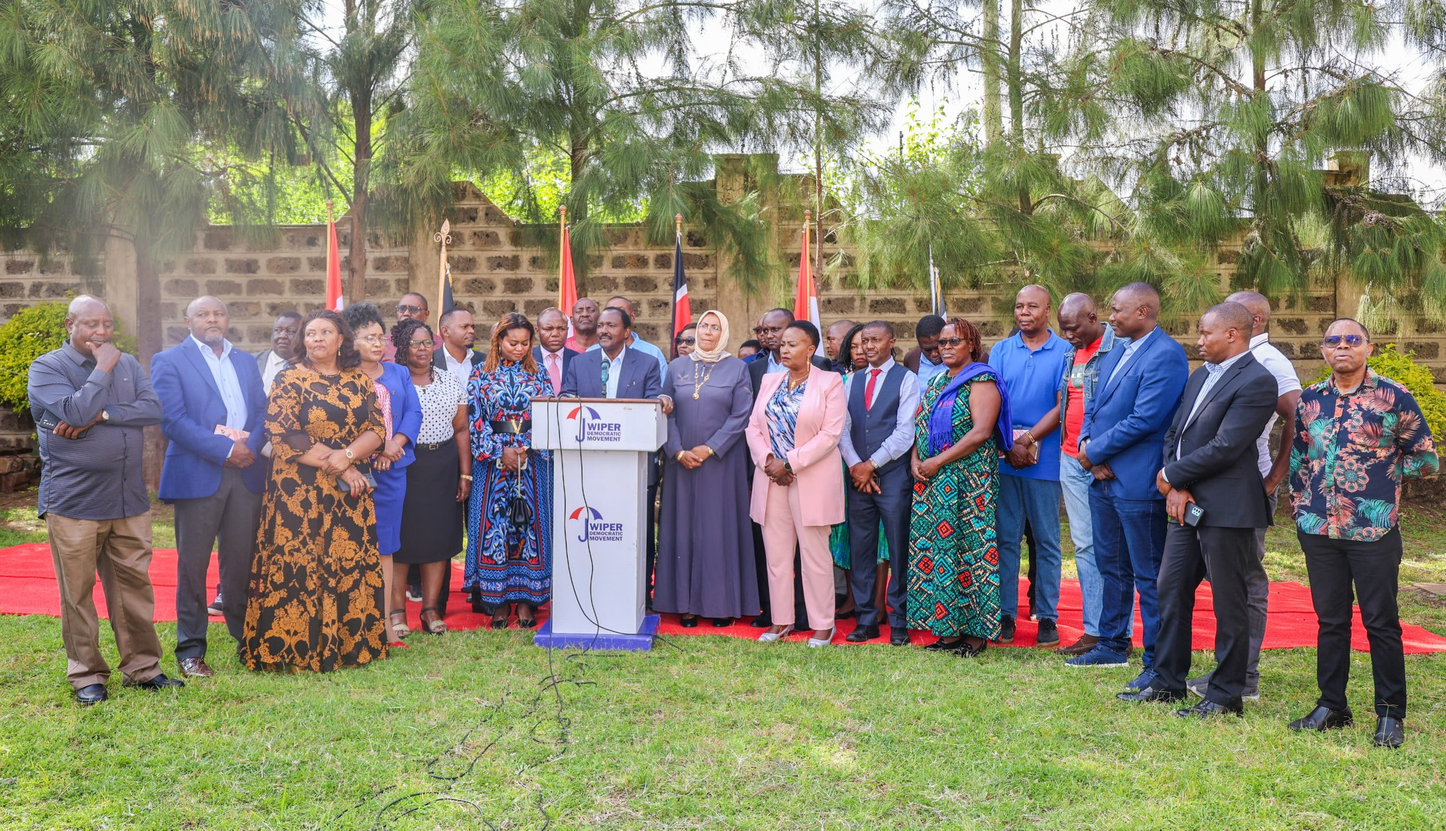
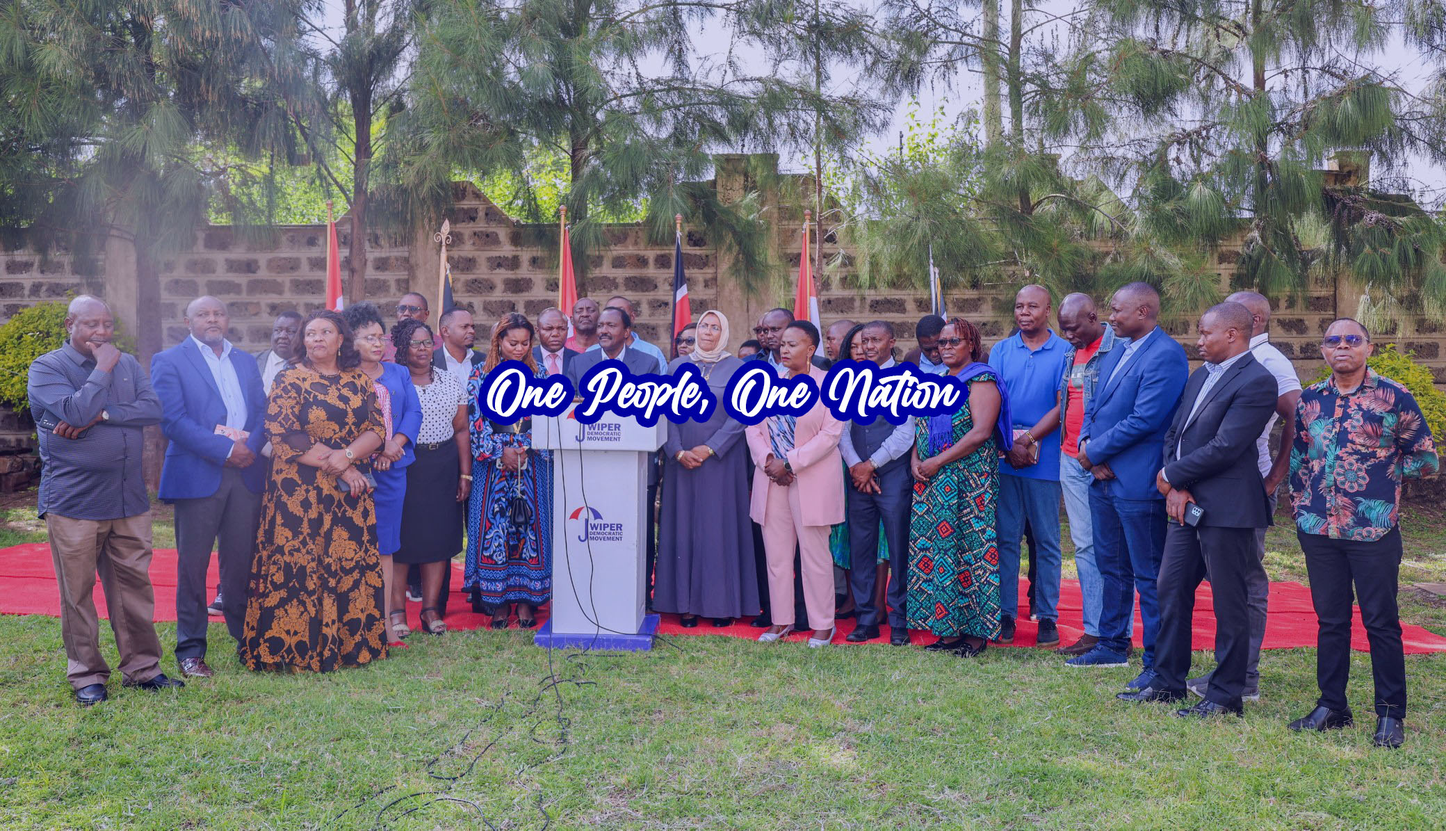
Updated index

diff --git a/wiper/templates/index.html b/wiper/templates/index.html
@@ -6,12 +6,45 @@
     <!-- ===============================================-->
     <main class="main" id="top">
 
-      <!-- ============================================-->
+
+      <section class="pt-0 pb-2 hero-slider">
+        <div class="swiper theme-slider" data-swiper='{"spaceBetween":5,"loop":true,"loopedSlides":5,"thumb":{"spaceBetween":5,"slidesPerView":5,"loop":true,"freeMode":true,"grabCursor":true,"loopedSlides":5,"centeredSlides":true,"slideToClickedSlide":true,"watchSlidesVisibility":true,"watchSlidesProgress":true},"slideToClickedSlide":true}'>
+          <div class="swiper-wrapper">
+            <div class="swiper-slide"><img class="img-fluid" src="{% static 'assets/img/necpg.jpg' %}" alt="image" /></div>
+            <div class="swiper-slide"> <img class="img-fluid" src="{% static 'assets/img/rally1.jpg' %}" alt="image" /></div>
+            <div class="swiper-slide"> <img class="img-fluid" src="{% static 'assets/img/rally2.jpg' %}" alt="image" /></div>
+            <div class="swiper-slide"> <img class="img-fluid" src="{% static 'assets/img/rally3.jpg' %}" alt="image" /></div>
+            <div class="swiper-slide"> <img class="img-fluid" src="{% static 'assets/img/rally4.jpg' %}" alt="image" /></div>
+          </div>
+          <div class="swiper-nav">
+            <div class="swiper-button-prev"><span class="fas fa-chevron-left"></span></div>
+            <div class="swiper-button-next"><span class="fas fa-chevron-right"></span></div>
+          </div>
+        </div>
+      </section>
+
+
+
       <!-- <section> begin ============================-->
-      <section class="py-0">
+        <section class="py-12 text-center text-md-start" style="background-image:url({% static 'assets/img/calltoaction.jpg'%}); background-repeat: no-repeat; background-size: cover;">
+          <div class="container">
+            <div class="row align-items-center">
+              <div class="col-md">
+                <h3 class="text-white mb-0">One People, One Nation</h3>
+              </div>
+              <div class="col-md-auto mt-md-0 mt-4"><a class="btn btn-warning rounded-pill" href="{% url 'index' %}">Join the Movement</a></div>
+            </div>
+          </div>
+        </section>
+
+
+
+      
+      <!-- <section> begin ============================-->
+      {% comment %} <section class="py-0">
         <div class="bg-holder" style="background-image:url({% static 'assets/img/hero.png' %}); background-repeat: no-repeat; background-size: cover"></div>
         <!--/.bg-holder-->
-        <div class="container">
+        <div class="container-fluid">
           <div class="row min-vh-100 py-8 align-items-center" data-inertia='{"weight":1.5}'>
             <div class="col-sm-8 col-lg-7">
               <div class="overflow-hidden">
@@ -30,12 +63,12 @@
               </div>
             </div>
           </div>
-        </div><!-- end of .container-->
-      </section>
+        </div>
+      </section> {% endcomment %}
 
 
 
-        <!-- <section> close ============================-->
+        
       
       <!-- <section> begin ============================-->
       {% comment %} <section class="bg-white text-center">
@@ -65,14 +98,14 @@
                 unions, professional associations, co-operative societies & student unions.</p>
             </div>
           </div>
-        </div><!-- end of .container-->
+        </div>
       </section> {% endcomment %}
-      <!-- <section> close ============================-->
-      <!-- ============================================-->
+      
+      
 
       
 
-      <!-- ============================================-->
+      
       <!-- <section> begin ============================-->
       <section class="bg-100 pt-6 pb-6">
         <div class="container">
@@ -110,12 +143,12 @@
             </div>
           </div>
         </div>
-      </section><!-- <section> close ============================-->
-      <!-- ============================================-->
+      </section>
+      
 
 
 
-      <!-- ============================================-->
+      
       <!-- <section> begin ============================-->
       <section class="mt-0 pt-6 pb-6">
         <div class="container">
@@ -128,47 +161,30 @@
             <div class="col-lg-6 px-lg-5 mt-6 mt-lg-0" data-zanim-timeline="{}" data-zanim-trigger="scroll">
               <div class="overflow-hidden">
                 <div class="px-4 px-sm-0" data-zanim-xs='{"delay":0}'>
-                  <h5 class="fs-0 fs-lg-1"><span class="fas fa-comment-dots fs-1 me-2" data-fa-transform="flip-h"></span>Vision</h5>
+                  <h5 class="fs-0 fs-lg-1">Vision</h5>
                   <p class="mt-3">To promote integrity, inclusivity, and social justice as the core national values towards a prosperous Kenya.</p>
                 </div>
               </div>
               <div class="overflow-hidden">
                 <div class="px-4 px-sm-0 mt-5" data-zanim-xs='{"delay":0}'>
-                  <h5 class="fs-0 fs-lg-1"><span class="fas fa-palette fs-1 me-2" data-fa-transform="shrink-1"></span>Ideology</h5>
+                  <h5 class="fs-0 fs-lg-1">Ideology</h5>
                     <p class="mt-3">The Party is founded on principles of social democracy and upholds ideals that foster equitable distribution of the Nation’s Resources and opportunities amongst all citizens. </p>
                 </div>
               </div>
               <div class="overflow-hidden">
                 <div class="px-4 px-sm-0 mt-5" data-zanim-xs='{"delay":0}'>
-                  <h5 class="fs-0 fs-lg-1"><span class="fas fa-stopwatch fs-1 me-2" data-fa-transform="grow-1"></span>Mission</h5>
+                  <h5 class="fs-0 fs-lg-1">Mission</h5>
                   <p class="mt-3">To provide access to transparent, accountable and people  centred leadership  for  the  benefit  of  present  and  future  generations  of Kenya. </p>
                 </div>
               </div>
             </div>
           </div>
-        </div><!-- end of .container-->
-      </section><!-- <section> close ============================-->
-      <!-- ============================================-->
+        </div>
+      </section>
+      
 
 
-
-      <!-- ============================================-->
-      <!-- <section> begin ============================-->
-      <section class="py-6 text-center text-md-start" style="background-color: #0000a1">
-        <div class="container">
-          <div class="row align-items-center">
-            <div class="col-md">
-              <h3 class="text-white mb-0">One People, One Nation</h3>
-            </div>
-            <div class="col-md-auto mt-md-0 mt-4"><a class="btn btn-warning rounded-pill" href="{% url 'index' %}">Join the Movement</a></div>
-          </div>
-        </div><!-- end of .container-->
-      </section><!-- <section> close ============================-->
-      <!-- ============================================-->
-
-
-
-      <!-- ============================================-->
+      
       <!-- <section> begin ============================-->
       <section class="text-center">
         <div class="container">
@@ -245,38 +261,22 @@
               </div>
             </div>
           </div>
-        </div><!-- end of .container-->
+        </div>
       </section><!--
       <section> close ============================-->
-      <!-- ============================================-->
+      
 
 
 
-      <!-- ============================================-->
+      
       <!-- <section> begin ============================-->
       {% include 'includes/leadership.html' %}
 
-
-      <section class="pt-0 pb-0">
-        <div class="swiper theme-slider" data-swiper='{"spaceBetween":5,"loop":true,"loopedSlides":5,"thumb":{"spaceBetween":5,"slidesPerView":5,"loop":true,"freeMode":true,"grabCursor":true,"loopedSlides":5,"centeredSlides":true,"slideToClickedSlide":true,"watchSlidesVisibility":true,"watchSlidesProgress":true},"slideToClickedSlide":true}'>
-          <div class="swiper-wrapper">
-            <div class="swiper-slide"><img class="img-fluid" src="{% static 'assets/img/necpg.jpg' %}" alt="image" /></div>
-            <div class="swiper-slide"> <img class="img-fluid" src="{% static 'assets/img/rally1.jpg' %}" alt="image" /></div>
-            <div class="swiper-slide"> <img class="img-fluid" src="{% static 'assets/img/rally2.jpg' %}" alt="image" /></div>
-            <div class="swiper-slide"> <img class="img-fluid" src="{% static 'assets/img/rally3.jpg' %}" alt="image" /></div>
-            <div class="swiper-slide"> <img class="img-fluid" src="{% static 'assets/img/rally4.jpg' %}" alt="image" /></div>
-          </div>
-          <div class="swiper-nav">
-            <div class="swiper-button-prev"><span class="fas fa-chevron-left"></span></div>
-            <div class="swiper-button-next"><span class="fas fa-chevron-right"></span></div>
-          </div>
-        </div>
-      </section>
       
 
-      <!-- ============================================-->
+      
       <!-- <section> begin ============================-->
-      <section class="bg-100">
+      <section class="bg-100 pt-0">
         <div class="container">
           <div class="text-center mb-6">
             <h3 class="fs-2 fs-md-3">Latest News</h3>
@@ -338,8 +338,8 @@
               </div>
             </div>
           </div>
-        </div><!-- end of .container-->
-      </section><!-- <section> close ============================-->
+        </div>
+      </section>
 
 
 
@@ -351,7 +351,7 @@
 
 
         <div class="bg-200 py-6">
-          <div class="container">
+          <div class="container-fluid">
             <div class="row align-items-center" data-zanim-timeline="{}" data-zanim-trigger="scroll">
               <div class="col-4 col-md-2 my-3 overflow-hidden"><img class="img-fluid" src="{% static 'assets/img/partner/logo2.png' %}" alt="partnerco" data-zanim-xs="{}" /></div>
               <div class="col-4 col-md-2 my-3 overflow-hidden"><img class="img-fluid" src="{% static 'assets/img/partner/logo3.png' %}" alt="tvc" data-zanim-xs="{}" /></div>

diff --git a/wiper/templates/about-us.html b/wiper/templates/about-us.html
@@ -54,119 +54,8 @@
     </div><!-- end of .container-->
   </section>
 
-
-  <section class="bg-100 text-center pt-4">
-        <div class="container">
-          <div class="text-center mb-6">
-            <h3 class="fs-2 fs-md-3">Party leadership</h3>
-            <hr class="short" data-zanim-xs='{"from":{"opacity":0,"width":0},"to":{"opacity":1,"width":"4.20873rem"},"duration":0.8}' data-zanim-trigger="scroll" />
-          </div>
-          <div class="row">
-            <div class="col-sm-6 col-lg-4    ">
-              <div class="card h-100"><img class="card-img-top" src="{% static 'assets/img/portrait-3.jpg' %}" alt="Kalonzo Musyoka" />
-                <div class="card-body" data-zanim-timeline="{}" data-zanim-trigger="scroll">
-                  <div class="overflow-hidden">
-                    <h5 data-zanim-xs='{"delay":0}'>H.E Dr. Stephen Kalonzo Musyoka, SC, EGH</h5>
-                  </div>
-                  <div class="overflow-hidden">
-                    <h6 class="fw-normal text-500" data-zanim-xs='{"delay":0.1}'>Party Leader</h6>
-                  </div>
-                </div>
-              </div>
-            </div>
-            <div class="col-sm-6 col-lg-4 mt-4  mt-lg-0 ">
-              <div class="card h-100"><img class="card-img-top" src="{% static 'assets/img/portrait-5.jpg' %}" alt="Andrew Sunkuli" />
-                <div class="card-body" data-zanim-timeline="{}" data-zanim-trigger="scroll">
-                  <div class="overflow-hidden">
-                    <h5 data-zanim-xs='{"delay":0}'>Andrew Sunkuli</h5>
-                  </div>
-                  <div class="overflow-hidden">
-                    <h6 class="fw-normal text-500" data-zanim-xs='{"delay":0.1}'>National Chairman</h6>
-                  </div>
-                </div>
-              </div>
-            </div>
-            <div class="col-sm-6 col-lg-4 mt-4 mt-sm-0  ">
-              <div class="card h-100"><img class="card-img-top" src="{% static 'assets/img/portrait-4.jpg' %}" alt="Shakila Abdalla" />
-                <div class="card-body" data-zanim-timeline="{}" data-zanim-trigger="scroll">
-                  <div class="overflow-hidden">
-                    <h5 data-zanim-xs='{"delay":0}'>Sen. Shakila Abdalla</h5>
-                  </div>
-                  <div class="overflow-hidden">
-                    <h6 class="fw-normal text-500" data-zanim-xs='{"delay":0.1}'>Secretary General</h6>
-                  </div>
-                </div>
-              </div>
-            </div>
-            <div class="col-sm-6 col-lg-4 mt-4   ">
-              <div class="card h-100"><img class="card-img-top" src="{% static 'assets/img/portrait-6.jpg' %}" alt="Anne Kanyi" />
-                <div class="card-body" data-zanim-timeline="{}" data-zanim-trigger="scroll">
-                  <div class="overflow-hidden">
-                    <h5 data-zanim-xs='{"delay":0}'>Anne Kanyi</h5>
-                  </div>
-                  <div class="overflow-hidden">
-                    <h6 class="fw-normal text-500" data-zanim-xs='{"delay":0.1}'>Deputy Chairperson</h6>
-                  </div>
-                </div>
-              </div>
-            </div>
-            <div class="col-sm-6 col-lg-4 mt-4   ">
-              <div class="card h-100"><img class="card-img-top" src="{% static 'assets/img/portrait-7.jpg' %}" alt="Mutula Kilonzo Jr" />
-                <div class="card-body" data-zanim-timeline="{}" data-zanim-trigger="scroll">
-                  <div class="overflow-hidden">
-                    <h5 data-zanim-xs='{"delay":0}'>Gov. Mutula Kilonzo Jr.</h5>
-                  </div>
-                  <div class="overflow-hidden">
-                    <h6 class="fw-normal text-500" data-zanim-xs='{"delay":0.1}'>Deputy Chairman</h6>
-                  </div>
-                </div>
-              </div>
-            </div>
-            <div class="col-sm-6 col-lg-4 mt-4   ">
-              <div class="card h-100"><img class="card-img-top" src="{% static 'assets/img/portrait-8.jpg' %}" alt="Victor Ogeto" />
-                <div class="card-body" data-zanim-timeline="{}" data-zanim-trigger="scroll">
-                  <div class="overflow-hidden">
-                    <h5 data-zanim-xs='{"delay":0}'>Victor Swanya Ogeto</h5>
-                  </div>
-                  <div class="overflow-hidden">
-                    <h6 class="fw-normal text-500" data-zanim-xs='{"delay":0.1}'>Deputy Chairman</h6>
-                  </div>
-                </div>
-              </div>
-            </div>
-            <div class="col-sm-6 col-lg-4 mt-4   ">
-              <div class="card h-100"><img class="card-img-top" src="{% static 'assets/img/portrait-9.jpg' %}" alt="Gideon Mulyungi" />
-                <div class="card-body" data-zanim-timeline="{}" data-zanim-trigger="scroll">
-                  <div class="overflow-hidden">
-                    <h5 data-zanim-xs='{"delay":0}'>Hon. Gideon Mulyungi</h5>
-                  </div>
-                  <div class="overflow-hidden">
-                    <h6 class="fw-normal text-500" data-zanim-xs='{"delay":0.1}'>National Treasurer</h6>
-                  </div>
-                </div>
-              </div>
-            </div>
-            <div class="col-sm-6 col-lg-4 mt-4   ">
-              <div class="card h-100"><img class="card-img-top" src="{% static 'assets/img/portrait-10.jpg' %}" alt="Robert Mbui" />
-                <div class="card-body" data-zanim-timeline="{}" data-zanim-trigger="scroll">
-                  <div class="overflow-hidden">
-                    <h5 data-zanim-xs='{"delay":0}'>Hon. Robert Mbui</h5>
-                  </div>
-                  <div class="overflow-hidden">
-                    <h6 class="fw-normal text-500" data-zanim-xs='{"delay":0.1}'>National Organising Secretary</h6>
-                  </div>
-                </div>
-              </div>
-            </div>
-          </div>
-        </div><!-- end of .container-->
-      </section><!-- <section> close ============================-->
-
-
-        
-
-        {% include 'includes/leadership.html' %}
-
+       
+  {% include 'includes/leadership.html' %}
 
 
 {% endblock%} 

diff --git a/wiper/templates/base.html b/wiper/templates/base.html
@@ -118,7 +118,7 @@
                 <ul class="list-unstyled">
                     <li class="mb-3"><a class="text-white" href="https://drive.google.com/file/d/1XqlFJjGJ9kZ9wKN_t1c_RcSdV0JZBsEr/view?usp=drive_link">How to Register</a></li>
                     <li class="mb-3"><a class="text-white" href="https://drive.google.com/file/d/1O7rZxltoDbpwuO0lBr5zYL3IkMhBG9EC/view?usp=drive_link">Elected Leaders</a></li>
-                    <li class="mb-3"><a class="text-white" href="https://drive.google.com/file/d/1CK_gd8_sSkcqxDzKNJUs2qOuVKjAqfl1/view?usp=drive_link">2023 Financial Statements</a></li>
+                    <li class="mb-3"><a class="text-white" href="https://drive.google.com/file/d/1EhptWmwwBitI09pVuPvueaEm9CoDuhRY/view?usp=sharing">2023 Financial Statements</a></li>
                 </ul>
               </div>
             <div class="col-12 col-sm-12 col-md-12 col-lg-4 text-white ms-lg-auto">
@@ -151,15 +151,10 @@
     </section><!-- <section> close ============================-->
     <!-- ============================================-->
 
-    <footer class="footer text-center py-2">
-      <div class="container">
-        <span class="copyright">
-            <!-- Link back to Colorlib can't be removed. Template is licensed under CC BY 3.0. -->
-            Copyright &copy;<script>document.write(new Date().getFullYear());</script> | Wiper Democratic Movement
-            <!-- Link back to Colorlib can't be removed. Template is licensed under CC BY 3.0. -->
-        </span>
+   
+      <div class="container-fluid py-2" style="text-align: center;">
+        Copyright &copy;<script>document.write(new Date().getFullYear());</script> | Wiper Democratic Movement
       </div>
-    </footer>
 
     <!-- ===============================================-->
     <!--    JavaScripts-->

diff --git a/static/assets/css/styles.css b/static/assets/css/styles.css
@@ -116,4 +116,8 @@ h3, h5{
     text-shadow: 4px 1px 9px rgb(255, 255, 255);
   }
 
+  .hero-slider{
+    margin-top: 50px;
+  }
+
 }
